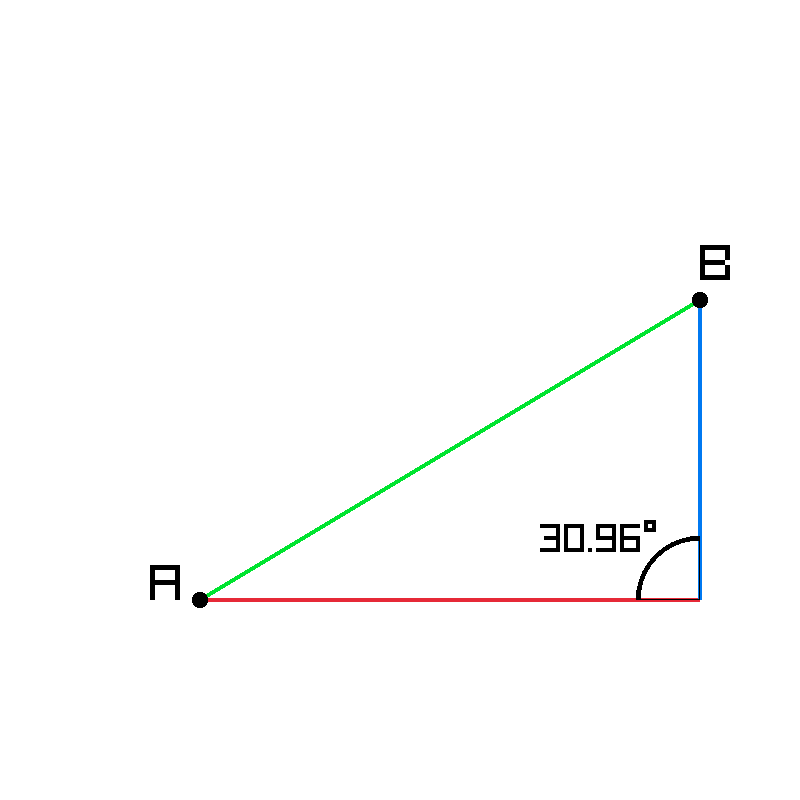
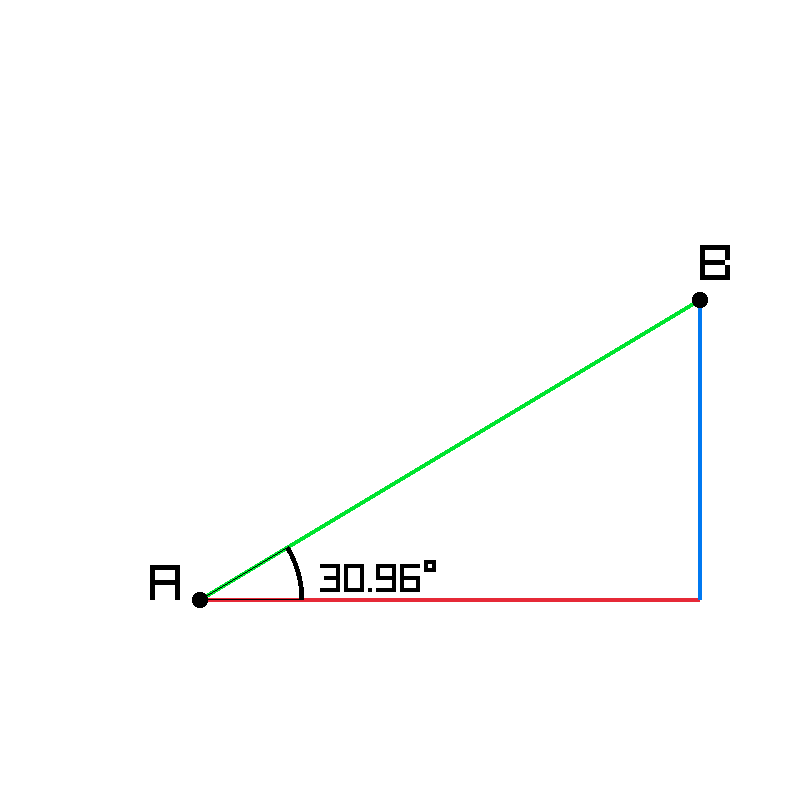
fixed angle display position

Changed region(s): [[0.3438, 0.6875, 0.5625, 0.75], [0.6562, 0.6562, 0.875, 0.75]]

diff --git a/angle.js b/angle.js
@@ -60,10 +60,10 @@ function draw(WORLD) {
 
     for (let i = 0; i < 2; i += 0.1) {
         r.DrawCircleSectorLines(
-            { x: WORLD.B_POINT.x, y: WORLD.A_POINT.y },
-            30 + i,
-            180,
-            270,
+            WORLD.A_POINT,
+            50 + i,
+            90 + degreeValue,
+            90,
             10,
             r.BLACK,
         );
@@ -71,8 +71,8 @@ function draw(WORLD) {
 
     r.DrawText(
         `${degreeValue.toFixed(2)}°`,
-        WORLD.B_POINT.x - 80,
-        WORLD.A_POINT.y - 40,
+        WORLD.A_POINT.x + 60,
+        WORLD.A_POINT.y - 20,
         20,
         r.BLACK,
     );

diff --git a/trig_pattern.js b/trig_pattern.js
@@ -56,7 +56,6 @@ function tearDown() {
 function loop(WORLD) {
     while (running()) {
         update(WORLD);
-        r.TakeScreenshot("trig_pattern.png");
         draw(WORLD);
     }
 }
